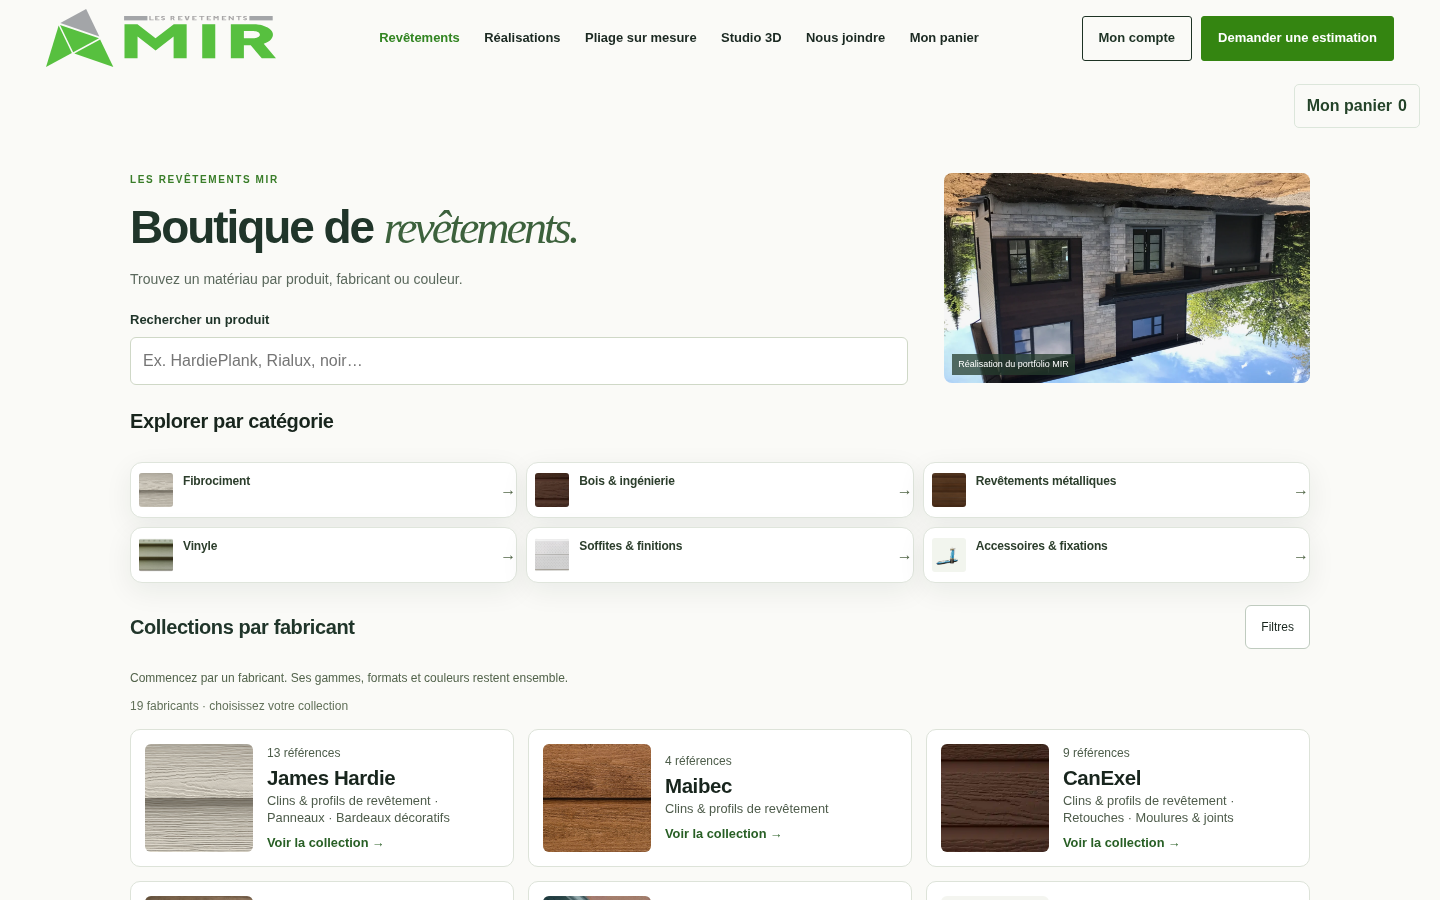
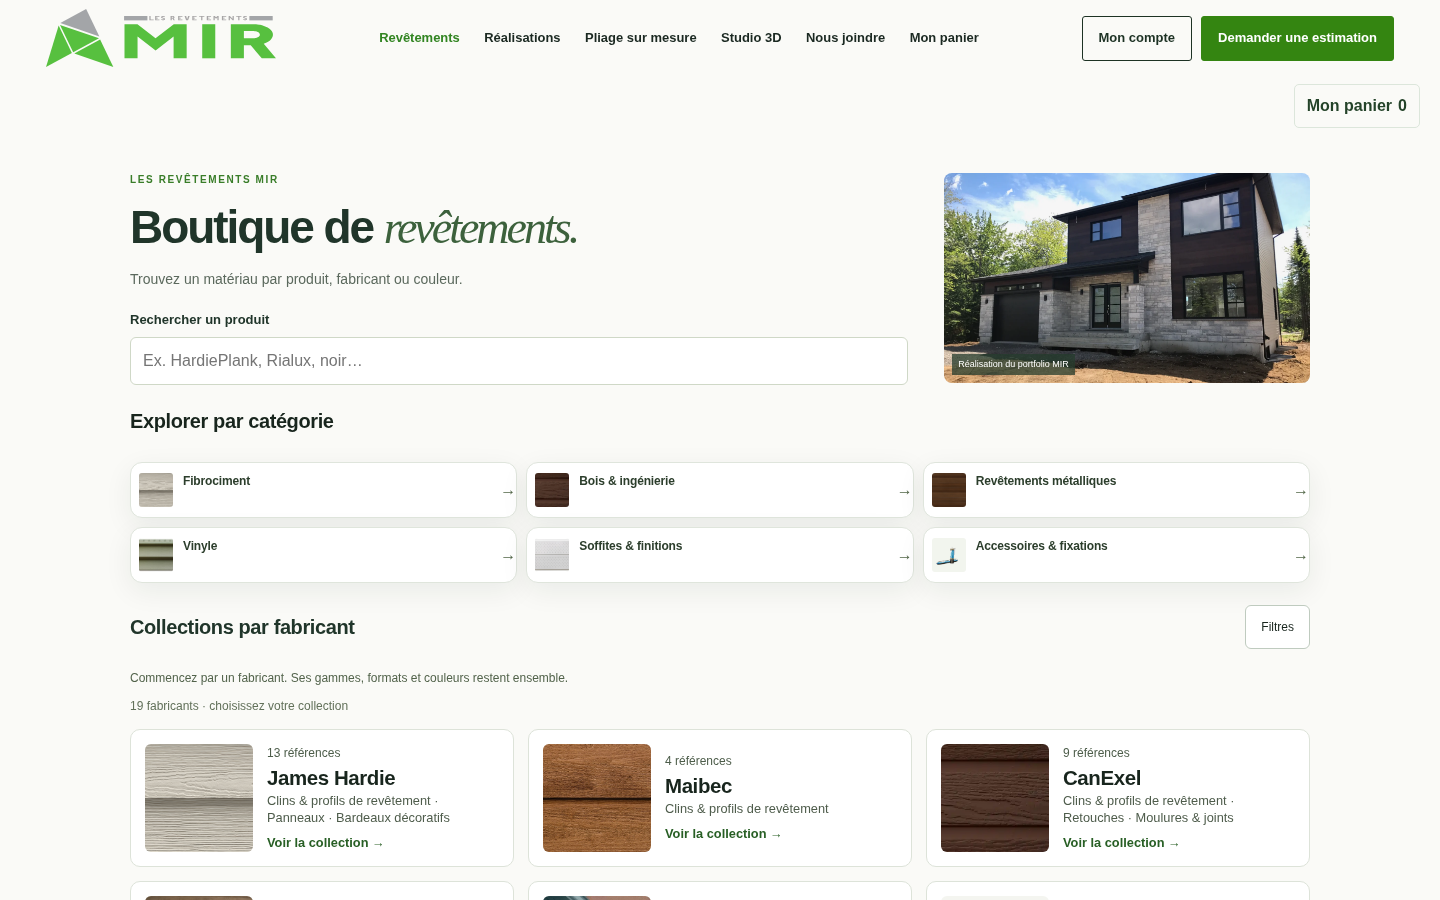
Conserver l orientation EXIF de la photo Boutique optimisee

Changed region(s): [[0.6562, 0.1867, 0.9375, 0.4356]]

diff --git a/docs/verification/client-parcours-20261109/README.md b/docs/verification/client-parcours-20261109/README.md
@@ -55,7 +55,7 @@ Les écrans nécessitant un jeton d’invitation, de validation de courriel ou d
 
 ## Mesures de chargement
 
-[Avant modification](reproductions-before.json) : photos Boutique **2 812 655 + 1 417 463 = 4 230 118 octets**. [Après](performance-after-before.json) : **231 390 + 128 656 = 360 046 octets**, réduction **91,5 %**. Même photo, proportions conservées, originales intactes ; aucun changement d’image sur l’accueil. Mesures locales de ressources, pas un score Lighthouse ni une mesure réseau mobile réelle. Les durées nulles du second passage viennent du cache et ne sont pas des gains de latence.
+[Avant modification](reproductions-before.json) : photos Boutique **2 812 655 + 1 417 463 = 4 230 118 octets**. [Après](performance-after-before.json) : **231 320 + 128 656 = 359 976 octets**, réduction **91,5 %**. Même photo, proportions conservées, originales intactes ; aucun changement d’image sur l’accueil. Mesures locales de ressources, pas un score Lighthouse ni une mesure réseau mobile réelle. Le relevé final désactive le cache navigateur ; les durées locales ne constituent pas des gains de latence mobile. La conversion applique l’orientation EXIF de l’original ([contrôle](image-orientation.json)) pour conserver la photo à l’endroit.
 
 Scripts mesurés avant : Pliage d’entrée **6 / 168 040 octets** ; configurateur Pliage/Panneaux **44 / 1 076 475 octets** ; Mur complet **16 / 475 020 octets**. Déjà différés ; moteurs partagés conservés. Leur suppression ou chargement conditionnel n’est pas entrepris sans mesure CPU et preuve de non-régression des exports/anciens dossiers.
 
